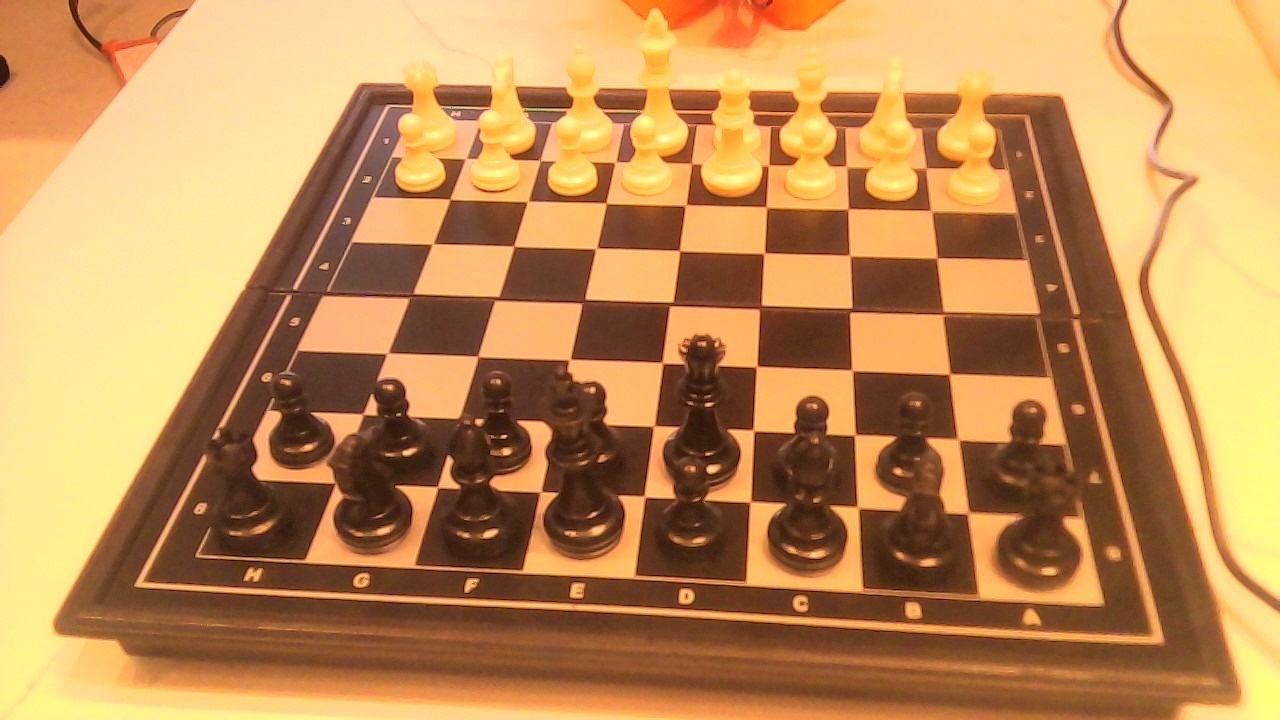
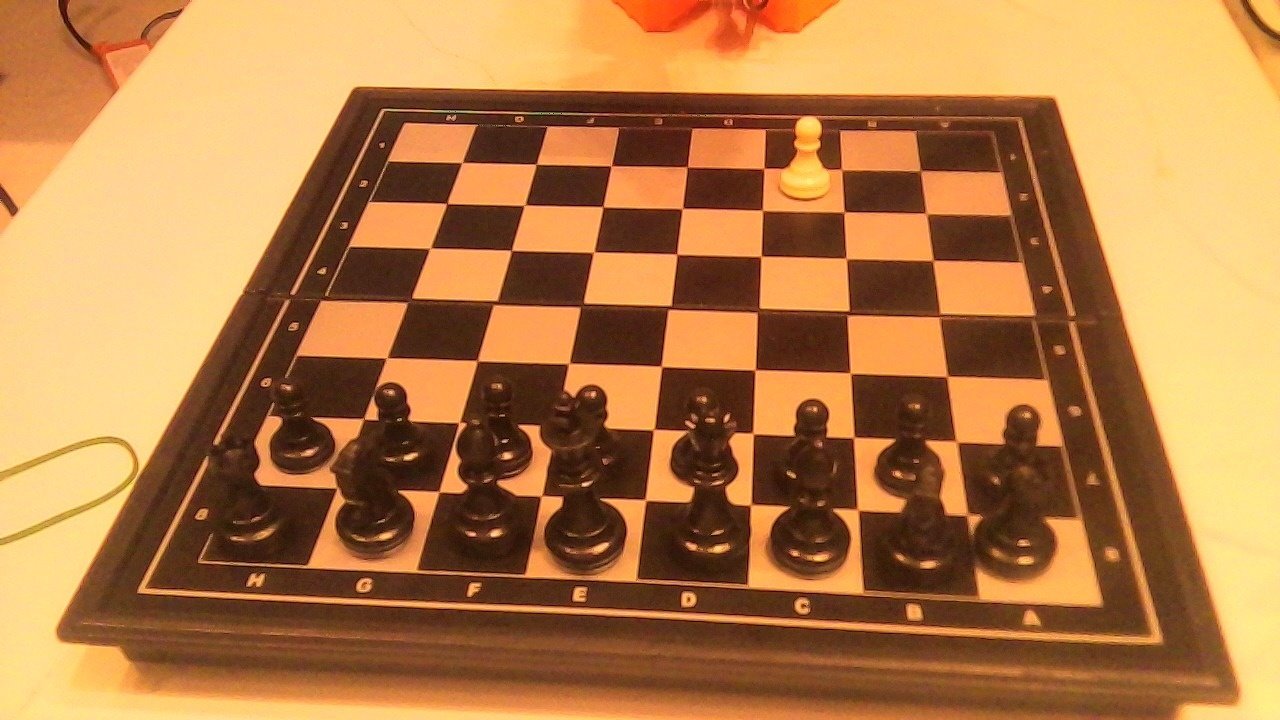
calib/locate_piece: YOLO box -> board mm -> robot frame -> straight-down IK, optional hover over the piece
Dry run by default (prints every step); --go moves the arm above the piece at the safe height, descends to piece height + clearance, holds, and goes home on Enter. Gripper stays closed unless --open (capped at GRIP_OPEN_MAX_PCT).

diff --git a/src/chess_player/calib/locate_piece.py b/src/chess_player/calib/locate_piece.py
@@ -1,0 +1,130 @@
+"""Find a piece with the board camera + YOLO, compute where it is for the ROBOT, and (optionally) hover the jaws over it.
+
+  python -m chess_player.calib.locate_piece --square c2                 # dry run: prints the maths, moves nothing
+  python -m chess_player.calib.locate_piece --square c2 --go            # the arm moves (asks Enter first)
+  python -m chess_player.calib.locate_piece --square c2 --go --clearance 25   # tip this many mm above the piece's top
+
+The chain (all numbers are printed):
+  1. YOLO box of the piece -> its base point in the picture (bottom-centre of the box, nudged up: the box bottom is the
+     front edge of the base, not its centre)
+  2. picture -> board mm: the grid homography (the board is a plane, and the base stands on it, so this is exact for the base)
+  3. board mm -> robot frame: data/board_to_robot.json (the 17-point touch fit; its residual is the main error source)
+  4. inverse kinematics for the jaw tip at (x, y, z), tool pointing straight down (tilt as small as the arm allows), wrist roll
+     fixed at the play angle, jaws open sideways.
+With --go the arm goes above the piece at the safe height, then down to the hover height, and HOLDS there (torque on) until
+you press Enter, so you can compare it with your own top-down pose; then it goes back up and home.
+The gripper stays CLOSED (a closed jaw is the narrowest) unless --open is given; the largest opening ever allowed is
+config.GRIP_OPEN_MAX_PCT (taught by hand).
+"""
+import argparse
+import time
+import urllib.request
+
+import chess
+import cv2
+import numpy as np
+
+from chess_player import config as C
+from chess_player.geometry import BoardToRobot, mm_to_square, square_center_mm
+from chess_player.motion.ik import IK, solve_or_raise
+from chess_player.vision import detect_board as D
+from chess_player.vision import ext_camera as E
+
+
+def grab(url):
+    if url.startswith("http") and url.rstrip("/").endswith("video"):  # the camera window also serves single pictures
+        url = url.rsplit("/", 1)[0] + "/shot"
+        data = urllib.request.urlopen(url, timeout=5).read()
+        return cv2.imdecode(np.frombuffer(data, np.uint8), cv2.IMREAD_COLOR)
+    cap = cv2.VideoCapture(url)
+    for _ in range(5):
+        ok, f = cap.read()
+    cap.release()
+    return f
+
+
+def locate(frame, square):
+    """(symbol, conf, board_xy_mm, box, view) of the piece YOLO sees on `square`, or None."""
+    view = E.view(frame)
+    boxes = []
+    D.detect_pieces(frame, view, conf=0.2, boxes_out=boxes)
+    best = None
+    for sym, conf, x1, y1, x2, y2, sq, h, note in boxes:
+        if sq != square:
+            continue
+        if best is None or conf > best[1]:
+            base = np.array([(x1 + x2) / 2, y2 - 0.12 * (y2 - y1)])
+            xy = view.px_to_mm([base])[0]
+            best = (sym, conf, xy, (x1, y1, x2, y2), view, base)
+    return best
+
+
+def main():
+    ap = argparse.ArgumentParser()
+    ap.add_argument("--square", default="c2")
+    ap.add_argument("--url", default=str(C.EXT_CAMERA_URL), help="board camera (the camera window's /video stream)")
+    ap.add_argument("--clearance", type=float, default=25.0, help="mm between the jaw tip and the piece's top")
+    ap.add_argument("--height", type=float, help="tip height above the board in mm (overrides --clearance)")
+    ap.add_argument("--open", type=float, default=0.0, help="gripper opening in %% while hovering (never above the taught maximum)")
+    ap.add_argument("--go", action="store_true", help="move the real arm")
+    a = ap.parse_args()
+
+    sq = chess.parse_square(a.square)
+    frame = grab(a.url)
+    got = locate(frame, sq)
+    if got is None:
+        raise SystemExit(f"YOLO sees no piece on {a.square}")
+    sym, conf, xy, box, view, base_px = got
+    centre = np.asarray(square_center_mm(sq))
+    spec = C.PIECES[sym.lower()]
+    z = a.height if a.height is not None else spec["height"] + a.clearance
+    print(f"1. YOLO: {chess.piece_name(chess.Piece.from_symbol(sym).piece_type)} ({sym}) on {a.square}, confidence {conf:.2f}")
+    print(f"   box x {box[0]:.0f}-{box[2]:.0f}, y {box[1]:.0f}-{box[3]:.0f} px -> base point at pixel ({base_px[0]:.1f}, {base_px[1]:.1f})")
+    print(f"2. board mm: x {xy[0]:.1f}, y {xy[1]:.1f}   (the centre of {a.square} is x {centre[0]:.1f}, y {centre[1]:.1f}; "
+          f"the piece is off by dx {xy[0] - centre[0]:+.1f}, dy {xy[1] - centre[1]:+.1f} mm)")
+    print(f"   hover height: {z:.0f} mm above the board ({spec['height']:.0f} mm piece + clearance)")
+    T, ik = BoardToRobot.load(), IK()
+    target = T(xy[0], xy[1], z)
+    print(f"3. robot frame (m): x {target[0]:.4f}, y {target[1]:.4f}, z {target[2]:.4f}   (board->robot fit residual {T.residual_mm if hasattr(T, 'residual_mm') else 'n/a'} mm)")
+    from chess_player.motion.arm import look_pose
+
+    look = {**look_pose(), "gripper": C.GRIPPER_LOOK}
+    q0 = np.array([look[j] for j in C.ARM_JOINTS])
+    q0[4] = C.WRIST_ROLL_DEG
+    hi = solve_or_raise(ik, T(xy[0], xy[1], C.Z_SAFE), q0, what="safe height")
+    lo, err, tilt = ik.solve(target, hi, C.GRASP_MAX_TILT)
+    pb = T.R.T @ (ik.fk(lo)[:3, 3] - T.t) * 1000
+    print(f"4. IK joints (deg) {dict(zip(C.ARM_JOINTS, np.round(lo, 1)))}")
+    print(f"   position error {err:.2f} mm, tool tilt from vertical {tilt:.1f} deg, predicted tip in board mm "
+          f"({pb[0]:.1f}, {pb[1]:.1f}, {pb[2]:.1f}); safe height joints {np.round(hi, 1)}")
+    if err > C.IK_MAX_ERR_MM:
+        raise SystemExit(f"not reachable: error {err:.1f} mm")
+    if not a.go:
+        print("\n(dry run: nothing moved. Add --go to move the arm.)")
+        return
+
+    from chess_player.motion.arm import Arm
+
+    opening = min(a.open, C.GRIP_OPEN_MAX_PCT)
+    print(f"\nThe arm will go above {a.square} at {C.Z_SAFE:.0f} mm, then down to {z:.0f} mm and HOLD (gripper {opening:.1f} %).")
+    input("Hands clear, a hand near the power switch. Enter = go, Ctrl+C = cancel: ")
+    arm = Arm()
+    try:
+        arm.move_to({**dict(zip(C.ARM_JOINTS, hi)), "gripper": 0.0})
+        arm.settle()
+        arm.move_to({**dict(zip(C.ARM_JOINTS, lo)), "gripper": opening}, C.DESCEND_S)
+        arm.settle()  # the shoulder stops 2-4 deg short at full stretch: measure and add it
+        now = arm.present()
+        got_tip = T.R.T @ (ik.fk(np.array([now[j] for j in C.ARM_JOINTS]))[:3, 3] - T.t) * 1000
+        print(f"HOLDING. measured tip in board mm: x {got_tip[0]:.1f}, y {got_tip[1]:.1f}, z {got_tip[2]:.1f}   "
+              f"(wanted x {xy[0]:.1f}, y {xy[1]:.1f}, z {z:.1f})")
+        print("Compare it with the piece by eye now (and with your own top-down pose on the leader).")
+        input("Enter = go back up and home: ")
+        arm.move_to({**dict(zip(C.ARM_JOINTS, hi)), "gripper": 0.0}, C.DESCEND_S)
+        arm.move_to(look, 2.0)
+    finally:
+        arm.close()
+
+
+if __name__ == "__main__":
+    main()
